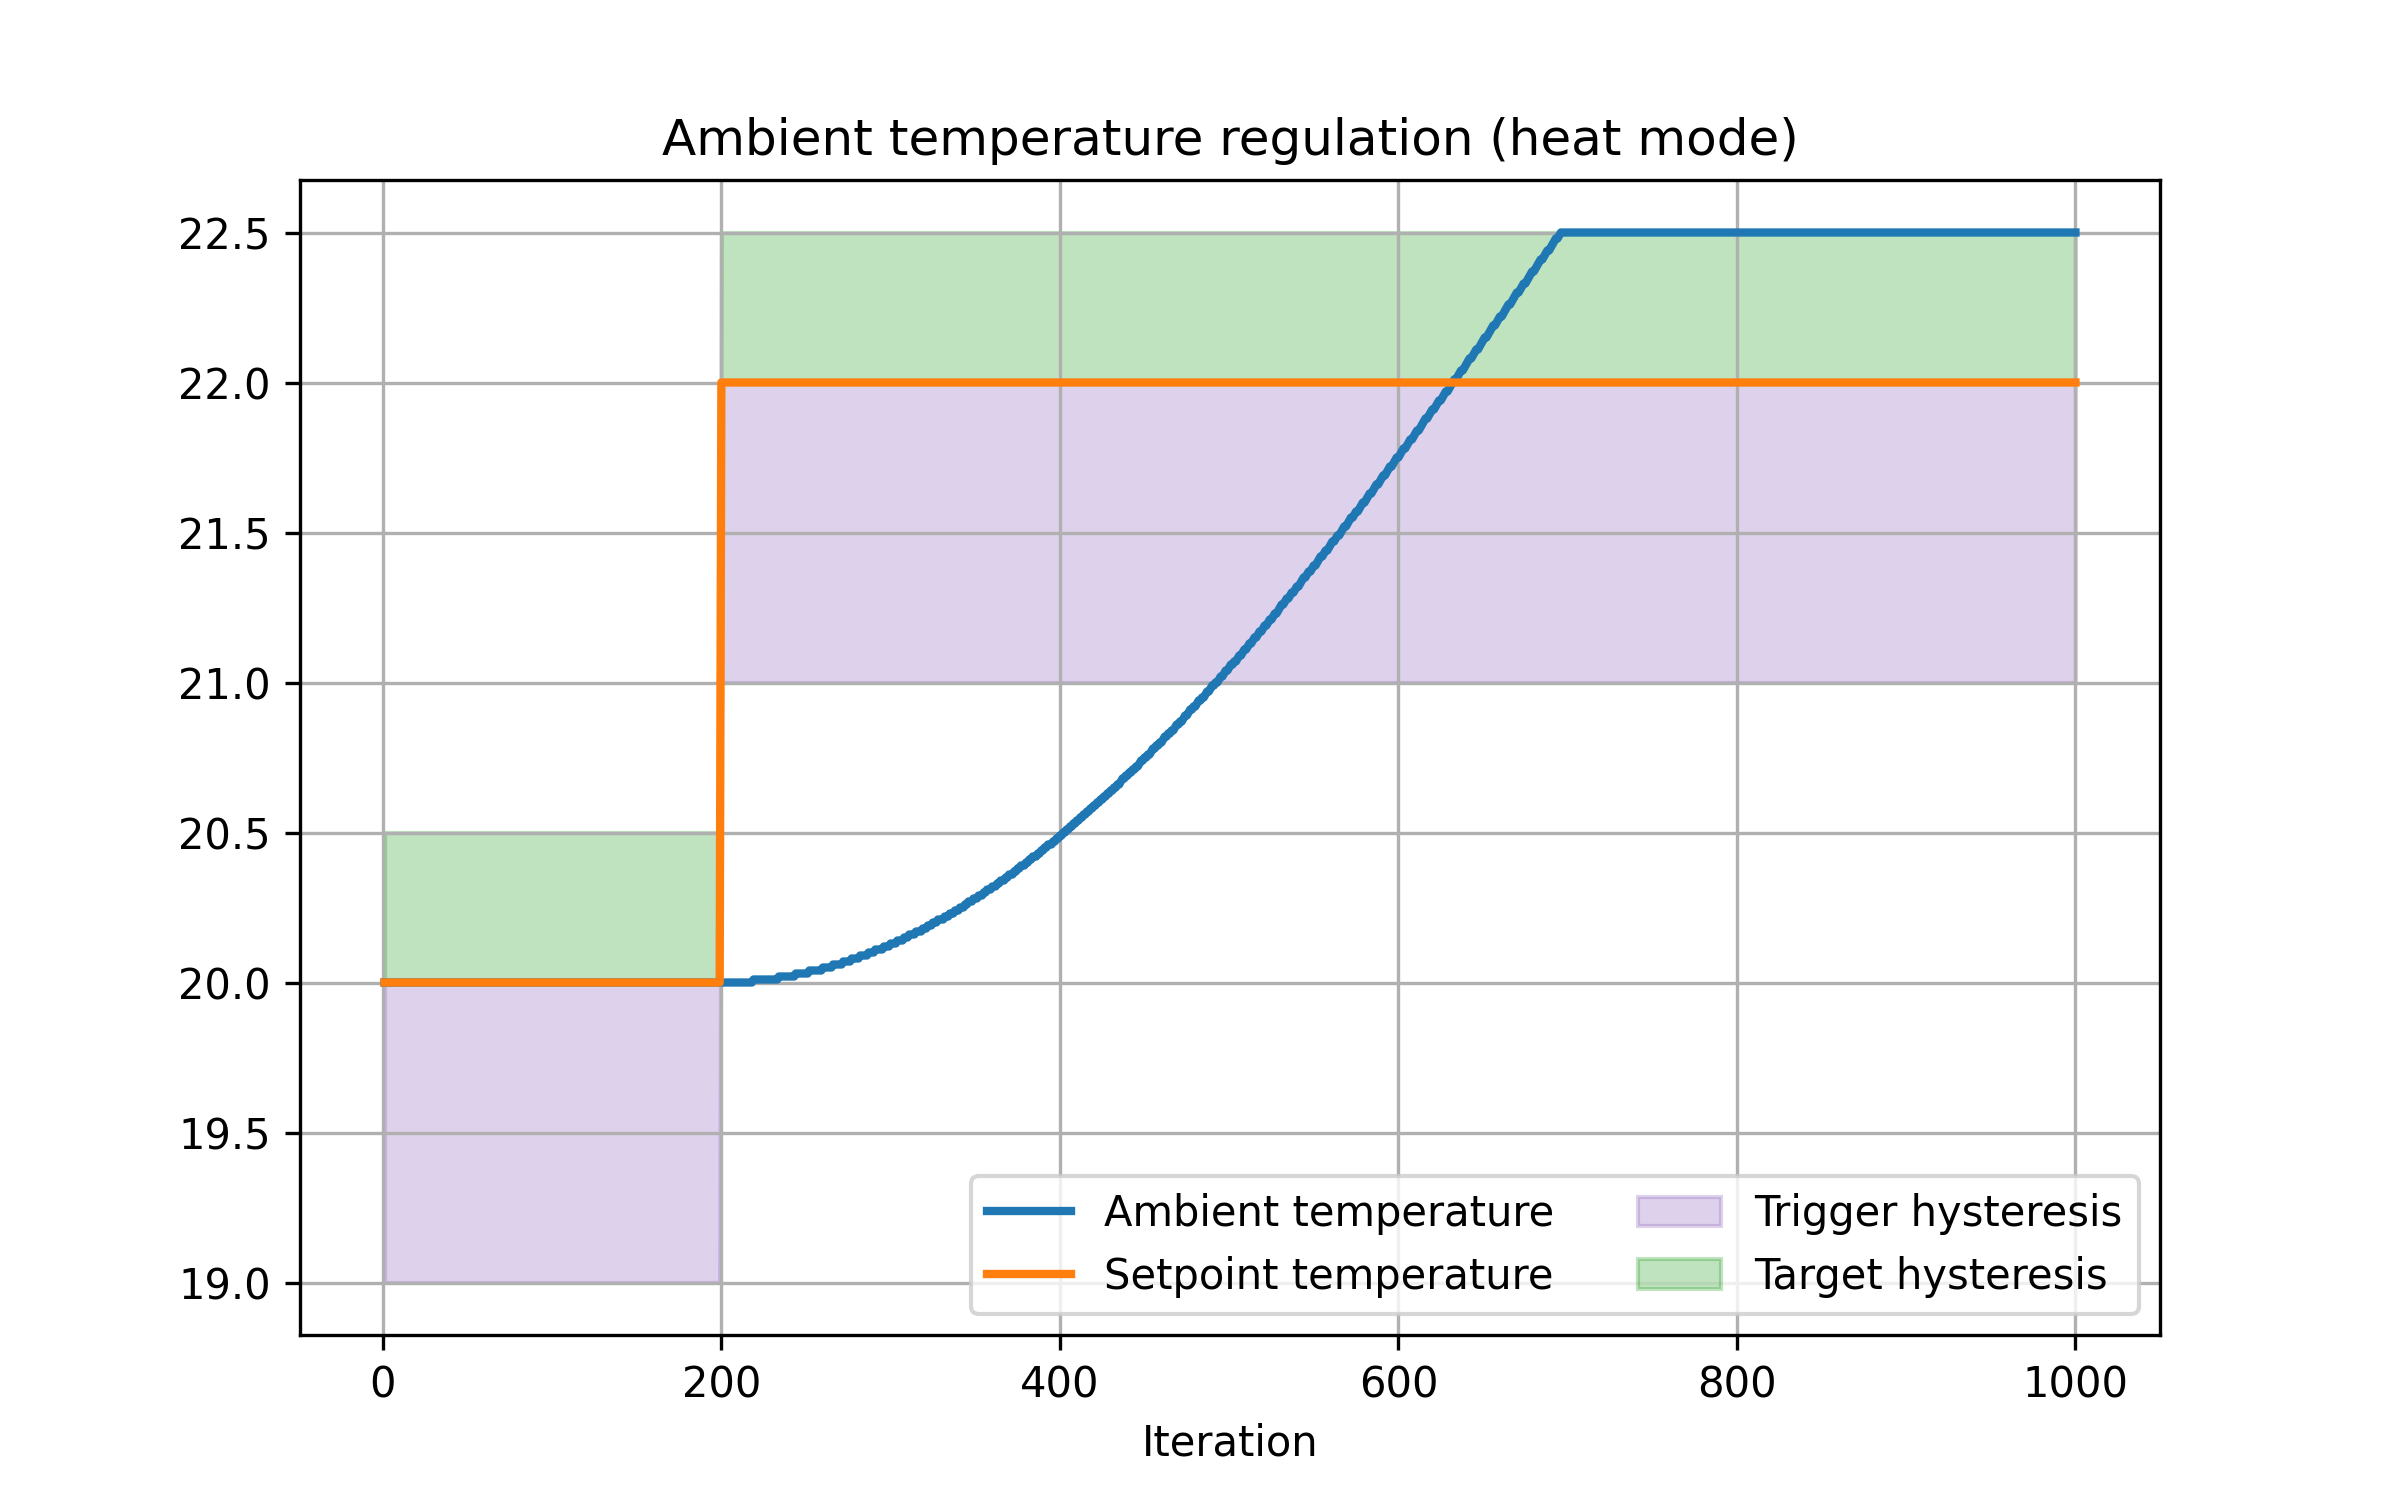
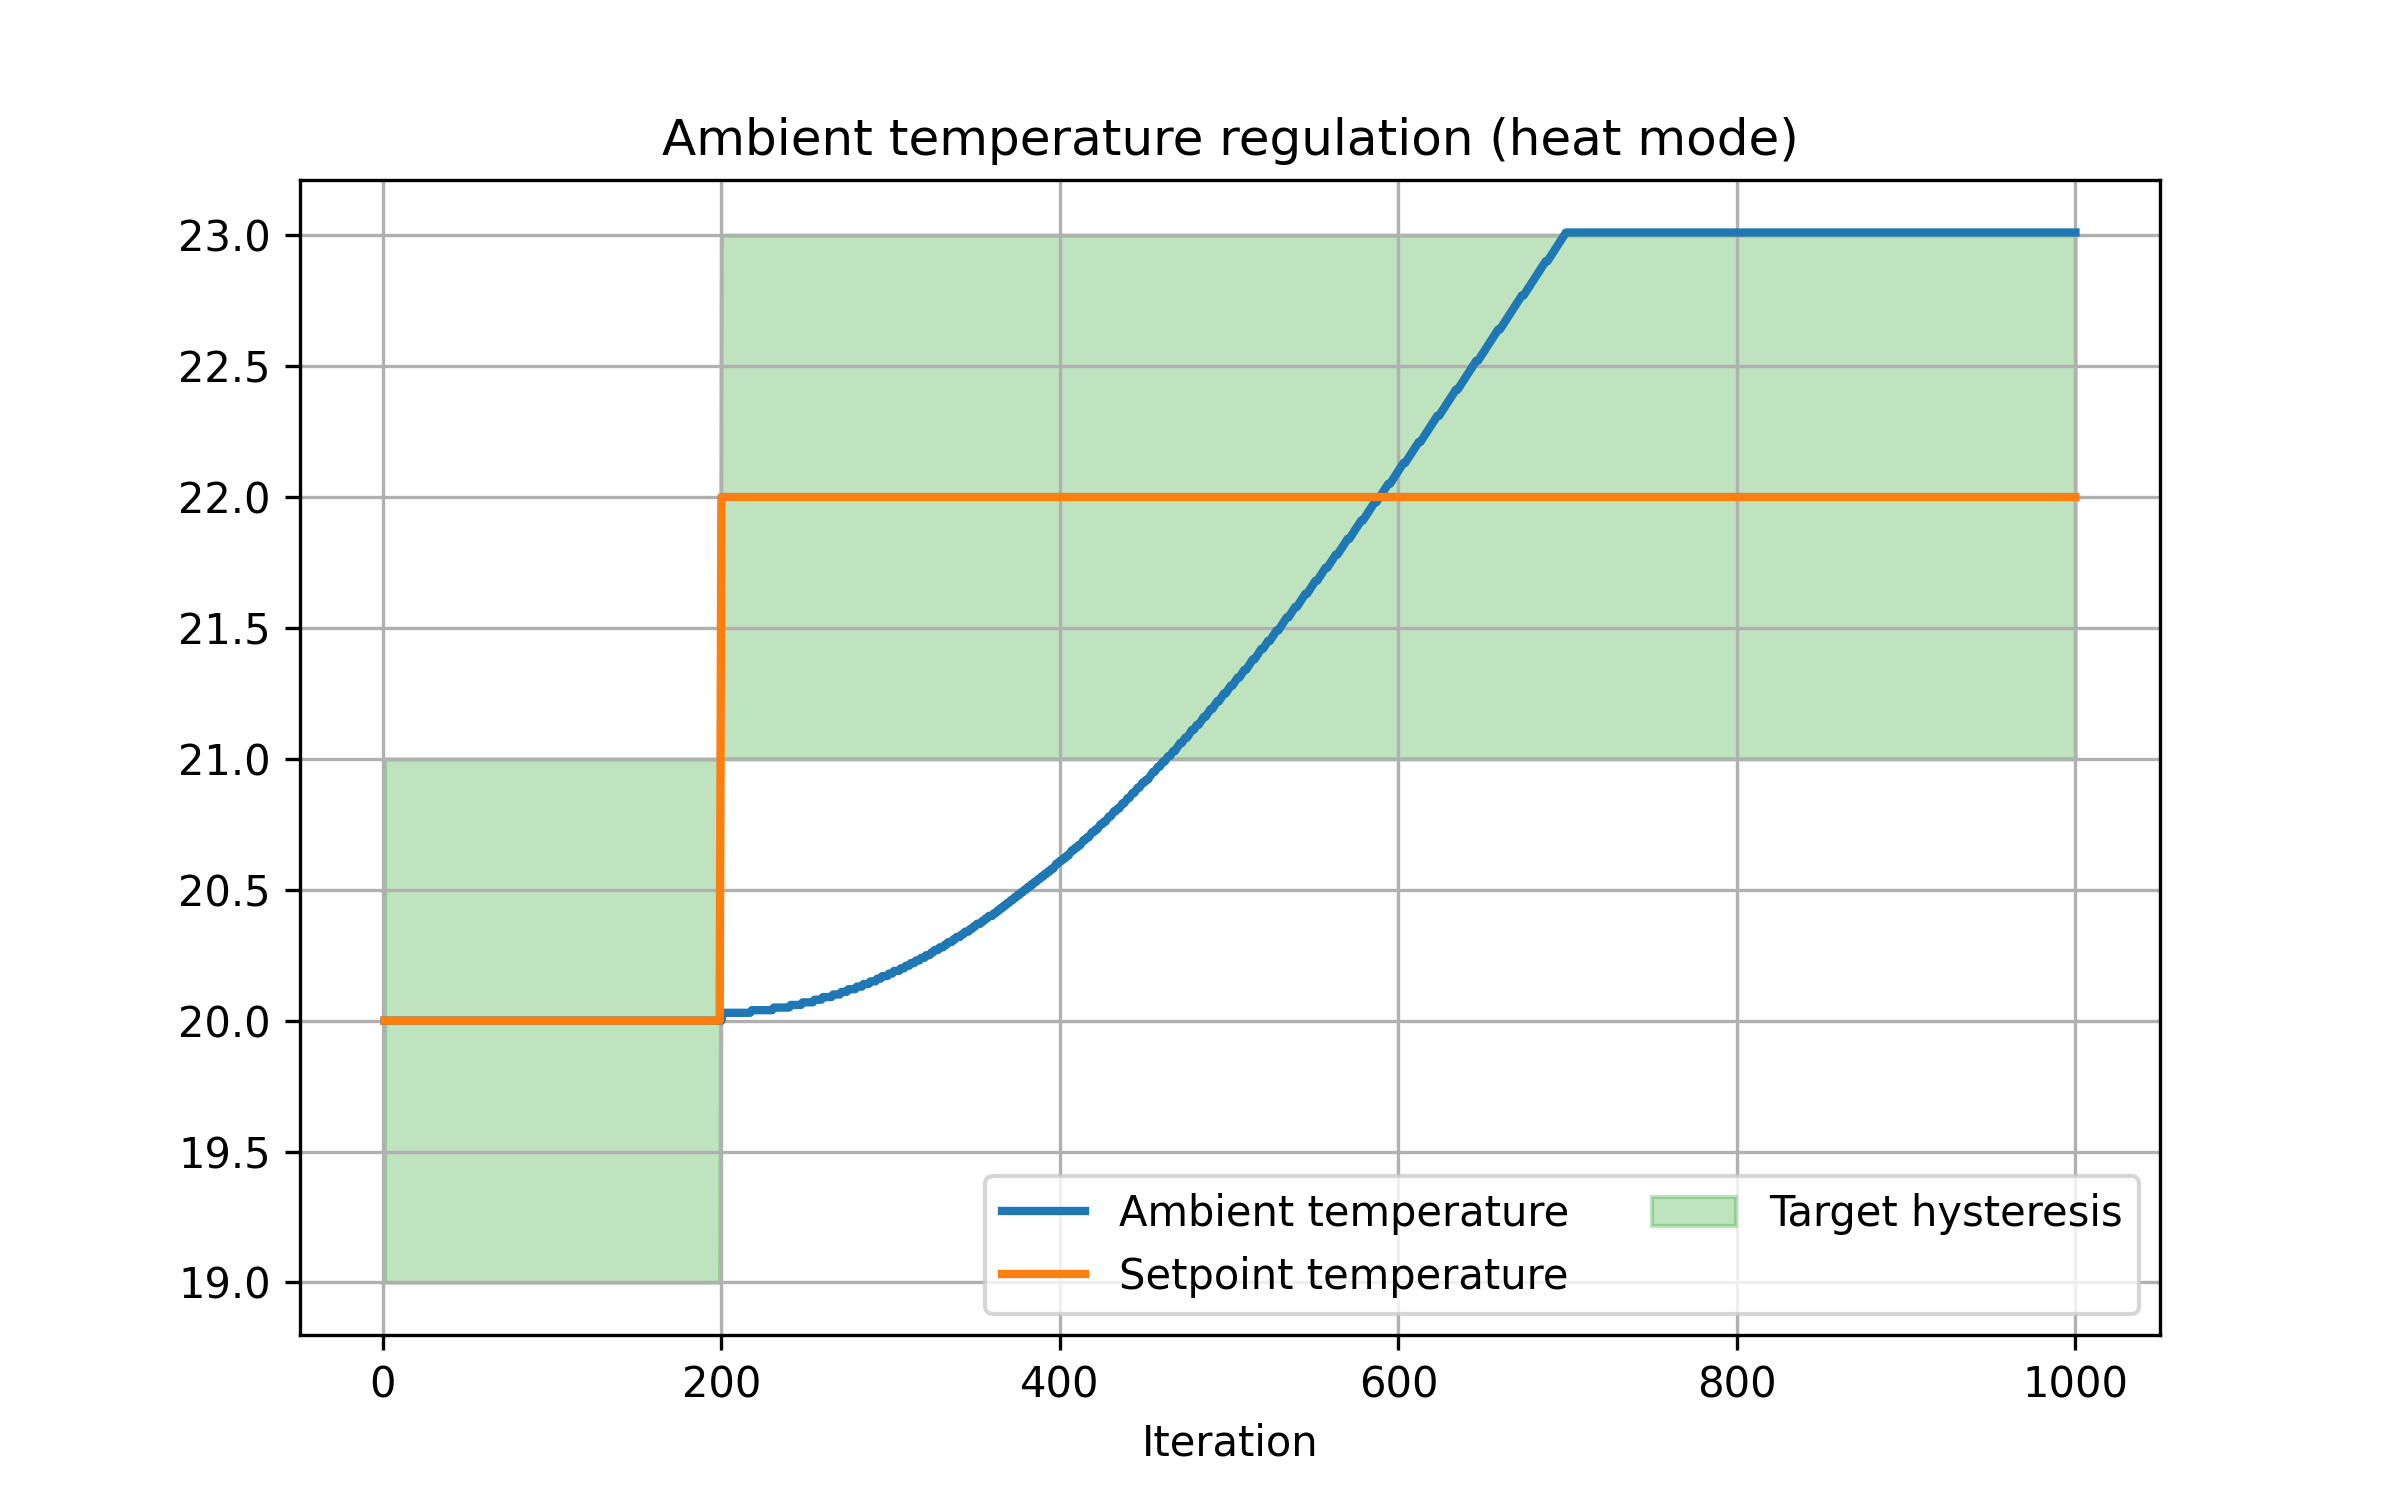
docs(regulation): update with refactor

diff --git a/scripts/evolution_csv.go b/scripts/evolution_csv.go
@@ -22,17 +22,17 @@ func SimulateThermostat(iterations int, filename string, setpointCommands []Setp
 		TemperatureSetpoint:    20.0,
 		TemperatureSetpointMin: 15.0,
 		TemperatureSetpointMax: 30.0,
-		Mode:                   thermostat.ModeAuto,
+		Mode:                   thermostat.ModeHeat,
 		FanSpeed:               thermostat.FanAuto,
 		AmbientTemperature:     20.0,
 	}
 
 	pidParams := thermostat.PIDRegulatorParams{
-		Kp:                   0.000005,
+		Kp:                   0.00001,
 		Ki:                   0.00001,
-		Kd:                   0.000025,
-		ModeChangeHysteresis: 1.0,
-		TargetHysteresis:     0.5,
+		Kd:                   0.01,
+		ModeChangeHysteresis: 2.0,
+		TargetHysteresis:     1.0,
 	}
 
 	thermostat, err := thermostat.New(initial, pidParams)
@@ -51,7 +51,7 @@ func SimulateThermostat(iterations int, filename string, setpointCommands []Setp
 	defer writer.Flush()
 
 	// Write CSV header
-	if err := writer.Write([]string{"Iteration", "Ambient", "Setpoint", "TriggerHistLow", "TriggerHistHigh", "TargetHistLow", "TargetHistHigh"}); err != nil {
+	if err := writer.Write([]string{"Iteration", "Ambient", "Setpoint", "ModeChangeLow", "ModeChangeHigh", "TargetLow", "TargetHigh"}); err != nil {
 		return fmt.Errorf("failed to write CSV header: %v", err)
 	}
 

diff --git a/README.md b/README.md
@@ -31,9 +31,12 @@ The regulation of ambient temperature is simulated using a [PID regulator](https
 
 Regulation simulates the effect of heating or cooling systems controlled by the thermostat that will actually heat and cool the room in order to reach the desired temperature (setpoint).
 
-This example is for the heating mode. If the ambient temperature is above setpoint, or below within a hysteresis range (- `TriggerHysteresis`, 1°C in this example), heating is not triggered. When it is lower with a difference greater than the trigger hysteresis, heating start until the target temperature is reached. The target is the setpoint temperature plus a target hysteresis (0.5°C here).
+This example is for the heating mode. If the ambient temperature is above setpoint, or below within a hysteresis range (- `TargetHysteresis`, 1°C in this example), heating is not triggered. When it is lower with a difference greater than the target hysteresis, heating start until the target temperature is reached. The target is the setpoint temperature plus the target hysteresis.
 
-The reason for having 2 different hysteresis values is to avoid infinite loops in the `auto` mode. Otherwise, reaching target temperature after heating would immediately trigger cooling down to the lower hysteresis bound, which would again trigger heating, and so on. This is why `TargetHysteresis` must always be lower than `TriggerHysteresis`. 
+In `auto` mode, a second hysteresis `ModeChangeHysteresis` (greater than `TargetHysteresis`) can trigger switching regulation direction between cooling and heating. For example, if the `TargetHysteresis` is 1 and the `ModeChangeHysteresis` is 2 (default values):
+
+- if temperature setpoint is 20, and ambient temperature is above 22 (`setpoint + ModeChangeHysteresis`), regulation will switch to cooling, and cool until 19 (`setpoint - TargetHysteresis`);
+- if temperature setpoint is 20, and ambient temperature is below 18 (`setpoint - ModeChangeHysteresis`), regulation will switch to heating, and cool until 21 (`setpoint + TargetHysteresis`).
 
 Regulation params can be set in the `config.yaml` file (see `config.example.yaml`). Regulation can also be disabled (in this case, ambient temperature will remain constant).
 
